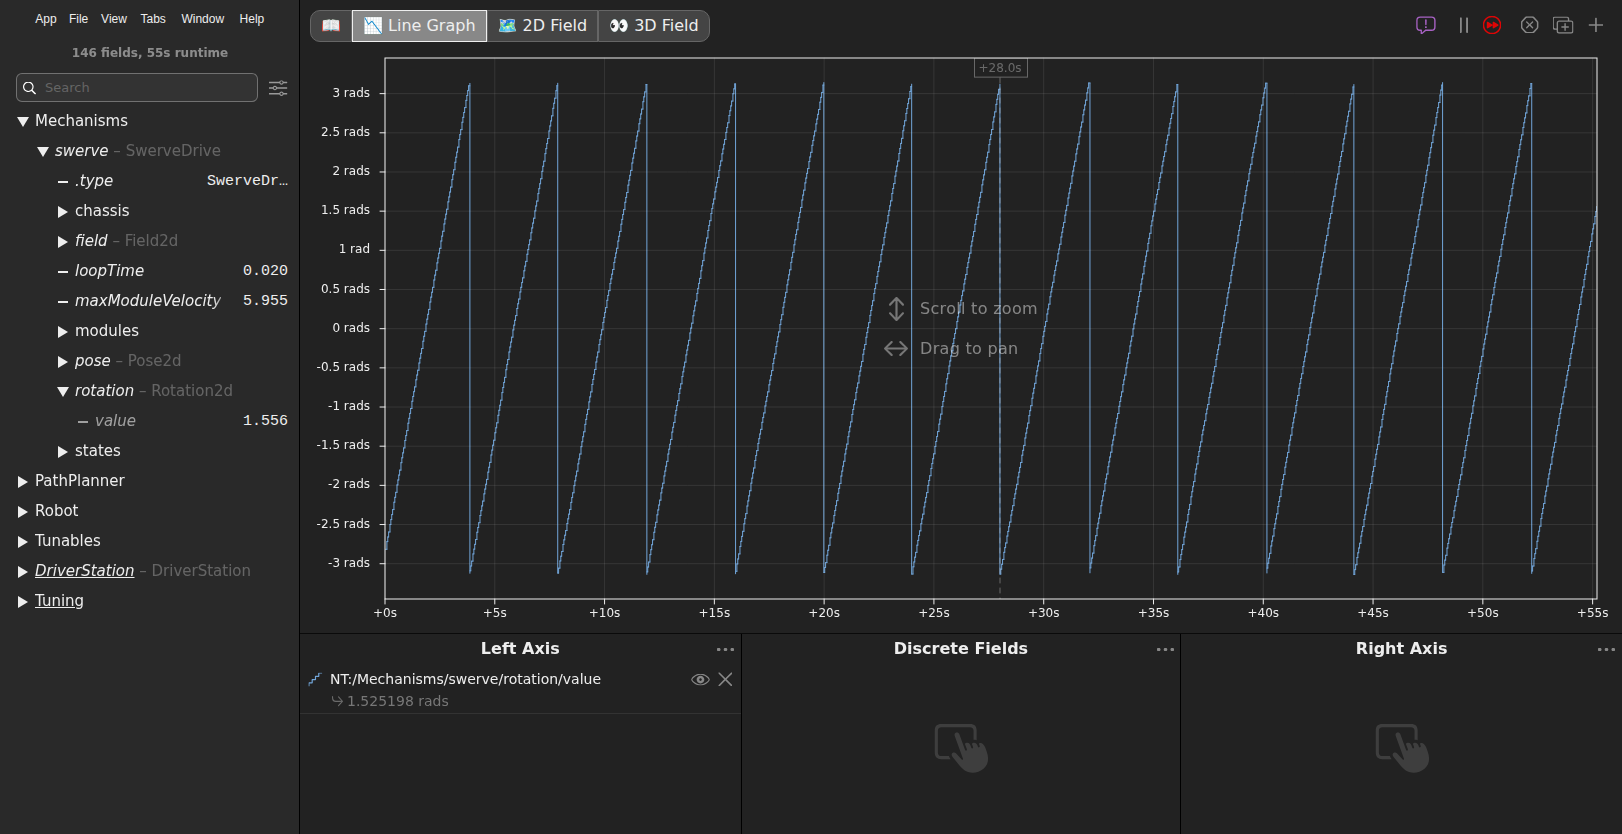
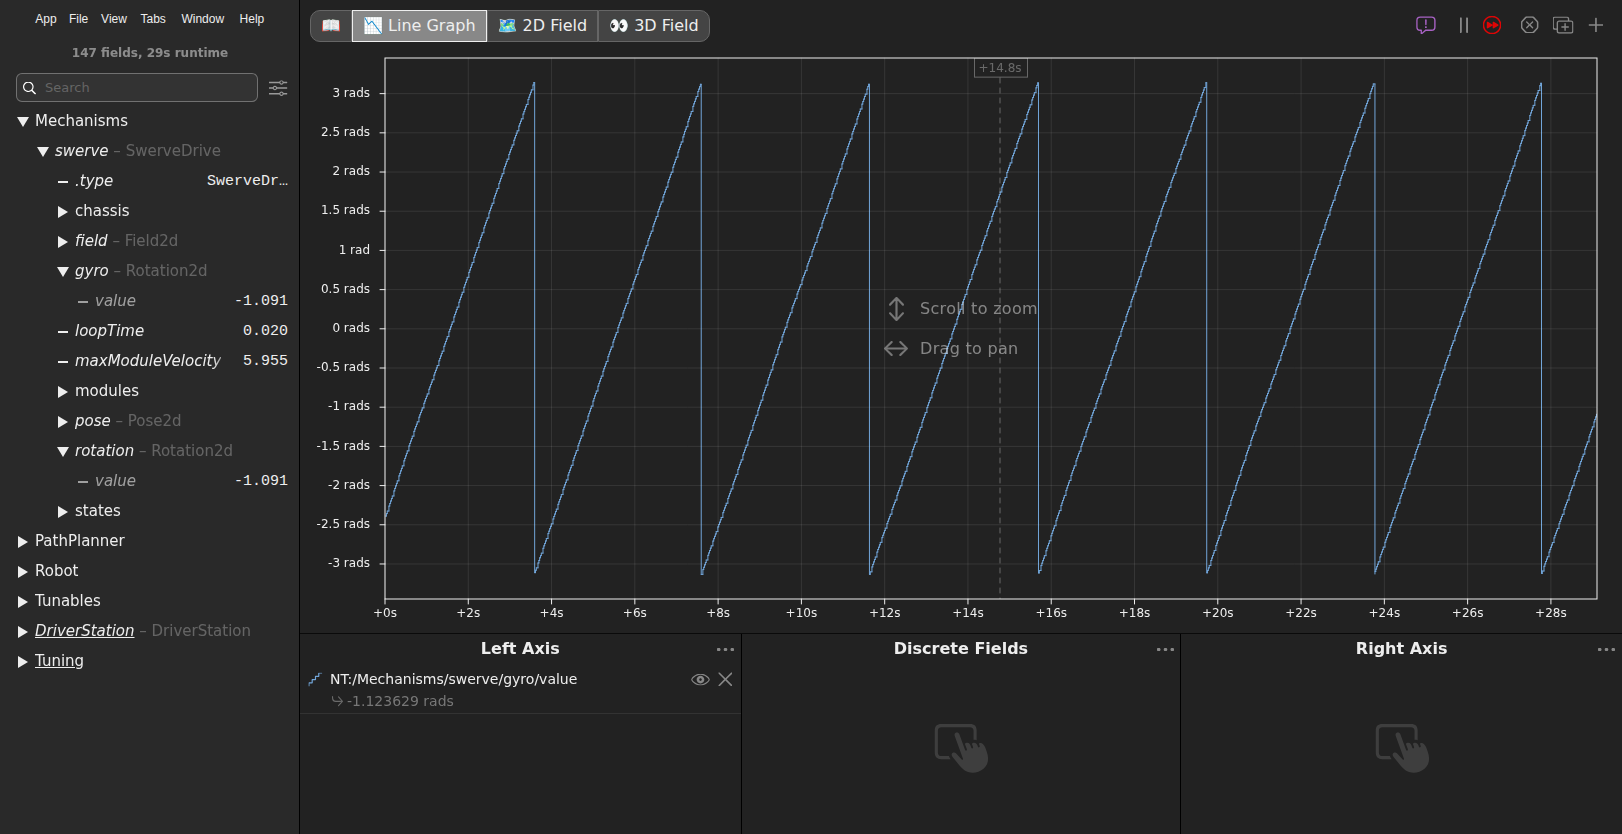
Swerve telemetry: rotation is the odometry rotation and gyro is the gyro's, both Rotation2d

diff --git a/explanation/telemetry-and-vision.md b/explanation/telemetry-and-vision.md
@@ -8,7 +8,7 @@ description: Telemetry verbosity, simulation, and fusing vision pose estimates
 
 YAMS pushes swerve drive and module data to NetworkTables under `Mechanisms/<name>`, where `<name>` is the telemetry name you pass to `SwerveDriveConfig.withTelemetry(name, ...)`. This documentation and the YAGSL examples use `swerve`, so the paths below start with `Mechanisms/swerve`. This is the data most dashboards (Shuffleboard, Elastic, AdvantageScope) read to render swerve widgets. See the [AdvantageScope how-to guide](../how-to/set-up-advantagescope.md). Every one of these fields is also written to a WPILib DataLog automatically. See [How to view your DataLog in AdvantageScope](../how-to/view-your-datalog-in-advantagescope.md) to look at a recorded run after the fact.
 
-<figure><img src="../.gitbook/assets/yagsl-telemetry.png" alt="AdvantageScope with Mechanisms/swerve expanded: .type reads SwerveDrive, then chassis, field, loopTime, maxModuleVelocity, modules, pose, rotation (a Rotation2d) with its value, and states. rotation/value is graphed on the left axis, rising as the robot turns counterclockwise and wrapping at plus or minus pi radians."><figcaption><p>The Mechanisms/swerve NetworkTables tree as seen in AdvantageScope.</p></figcaption></figure>
+<figure><img src="../.gitbook/assets/yagsl-telemetry.png" alt="AdvantageScope with Mechanisms/swerve expanded: .type reads SwerveDrive, then chassis, field, gyro (a Rotation2d) with its value, loopTime, maxModuleVelocity, modules, pose, rotation (a Rotation2d) with its value, and states. gyro/value is graphed on the left axis, rising as the robot turns counterclockwise and wrapping at plus or minus pi radians."><figcaption><p>The Mechanisms/swerve NetworkTables tree as seen in AdvantageScope.</p></figcaption></figure>
 
 ```
 Mechanisms/swerve/
@@ -16,7 +16,8 @@ Mechanisms/swerve/
 ├── loopTime                (seconds)
 ├── maxModuleVelocity       (meters per second, the fastest a module can drive)
 ├── pose                    (Pose2d struct)
-├── rotation                (Rotation2d struct, the robot's rotation from the gyro, not from odometry)
+├── rotation                (Rotation2d struct, the robot's rotation from odometry, used for the module states)
+├── gyro                    (Rotation2d struct, the gyro's rotation)
 ├── chassis/
 │   ├── current             (ChassisVelocities struct, robot-relative, measured)
 │   ├── desired              (ChassisVelocities struct, robot-relative, commanded)
@@ -55,7 +56,7 @@ public enum TelemetryVerbosity {
 
 | Verbosity | Swerve drive fields |
 | --- | --- |
-| `LOW` | `pose`, `rotation`, `states/current`, `states/desired`, `chassis/current`, `chassis/desired` and `maxModuleVelocity` |
+| `LOW` | `pose`, `rotation`, `gyro`, `states/current`, `states/desired`, `chassis/current`, `chassis/desired` and `maxModuleVelocity` |
 | `MID` | `LOW`'s, and `chassis/field` |
 | `HIGH` | `MID`'s, and the gains and setpoints for [live tuning](../how-to/tune-pidf-gains.md) |
 

diff --git a/how-to/view-your-datalog-in-advantagescope.md b/how-to/view-your-datalog-in-advantagescope.md
@@ -62,12 +62,12 @@ var cfg = new SwerveDriveConfig()
 
 `SwerveParser` then derives a DataLog name for every module and motor from that one name:
 
-* `Swerve`: the drive itself (pose, rotation, chassis speeds, module states).
+* `Swerve`: the drive itself (pose, rotation, gyro, chassis speeds, module states).
 * `Swerve/modules/<name>`: that module's absolute encoder and state.
 * `Swerve/modules/<name>/drive`: that module's drive motor.
 * `Swerve/modules/<name>/azimuth`: that module's angle/steering motor.
 
-Numeric entries have their unit inserted after that prefix, for example `Swerve/meters_per_second/maxModuleVelocity`, `Swerve/modules/frontleft/degrees/encoder`, or `Swerve/modules/frontleft/azimuth/rotations/mechanism/position`. Struct entries such as `Swerve/pose`, `Swerve/rotation` and `Swerve/states/current` do not. Tunable (live tuning) fields are never written to the DataLog.
+Numeric entries have their unit inserted after that prefix, for example `Swerve/meters_per_second/maxModuleVelocity`, `Swerve/modules/frontleft/degrees/encoder`, or `Swerve/modules/frontleft/azimuth/rotations/mechanism/position`. Struct entries such as `Swerve/pose`, `Swerve/rotation`, `Swerve/gyro` and `Swerve/states/current` do not. Tunable (live tuning) fields are never written to the DataLog.
 
 {% hint style="info" %}
 If you use the shorter `withTelemetry("swerve", TelemetryVerbosity.HIGH)` overload instead, `SwerveParser` names the drive's DataLog `Swerve` for you, but only the drive-level entries are created, not the per-module or per-motor ones. Pass a `SwerveDriveTelemetryConfig` with `withDataLogName(...)` as above to get all of them. A `SwerveDriveTelemetryConfig` without a DataLog name creates no dedicated entries at all (the `NT:` mirror is still recorded).

diff --git a/tutorial/04-verify-and-calibrate-hardware.md b/tutorial/04-verify-and-calibrate-hardware.md
@@ -37,7 +37,7 @@ If you're using a hardware vendor client to poke at motors/encoders directly, yo
 {% step %}
 ### Pick a front and check the gyroscope
 
-**Front is whatever the gyroscope reports as `0`.** Pick a front, and expect that you may need to change it later if it turns out to be inconvenient. Then lift the robot and turn it counterclockwise (seen from above): `Mechanisms/swerve/rotation` (the gyro's `Rotation2d`) must go **up**. If it goes down, set `gyroInvert` to `true` in `swervedrive.json`.
+**Front is whatever the gyroscope reports as `0`.** Pick a front, and expect that you may need to change it later if it turns out to be inconvenient. Then lift the robot and turn it counterclockwise (seen from above): `Mechanisms/swerve/gyro` (the gyro's `Rotation2d`) must go **up**. If it goes down, set `gyroInvert` to `true` in `swervedrive.json`.
 
 <figure><img src="../.gitbook/assets/yagsl-gyro-ccw.gif" alt="An animation of a robot seen from above turning 90 degrees counterclockwise, twice. On the left the gyro reading goes up to 90 degrees, which is correct, so gyroInvert stays false. On the right it goes down to minus 90 degrees, so gyroInvert must be set to true."><figcaption><p>Turn the robot counterclockwise: the gyro should go up.</p></figcaption></figure>
 

diff --git a/how-to/determine-inversion.md b/how-to/determine-inversion.md
@@ -45,7 +45,7 @@ Once every module reads CCW+, rotate each wheel to point straight forward (bevel
 
 ## 2. Confirm the gyro reads CCW+
 
-With the robot lifted off the ground, rotate the **entire robot** counterclockwise (viewed from above) and watch `Mechanisms/swerve/rotation`, the robot's rotation straight from the gyro. It's a `Rotation2d`: in AdvantageScope, expand it and graph its `value` (radians).
+With the robot lifted off the ground, rotate the **entire robot** counterclockwise (viewed from above) and watch `Mechanisms/swerve/gyro`, the gyro's rotation. It's a `Rotation2d`: in AdvantageScope, expand it and graph its `value` (radians).
 
 <figure><img src="../.gitbook/assets/yagsl-gyro-ccw.gif" alt="An animation of a robot seen from above turning 90 degrees counterclockwise, twice. On the left the gyro reading goes up to 90 degrees, which is correct, so gyroInvert stays false. On the right it goes down to minus 90 degrees, so gyroInvert must be set to true."><figcaption><p>Turn the robot counterclockwise: the gyro should go up.</p></figcaption></figure>
 

diff --git a/how-to/use-a-custom-gyro.md b/how-to/use-a-custom-gyro.md
@@ -149,7 +149,7 @@ whole attitude into the robot's frame for that axis, then applies the inversion 
 ### Verify it
 
 Follow the normal [gyro CCW+ check](determine-inversion.md#2-confirm-the-gyro-reads-ccw).
-`Mechanisms/swerve/rotation` in NetworkTables still populates and behaves exactly like a parser-built
+`Mechanisms/swerve/gyro` in NetworkTables still populates and behaves exactly like a parser-built
 gyro, since YAMS only ever sees a `Supplier<Rotation3d>` regardless of where it came from. If it
 increases while the robot rotates counter-clockwise, you're done; if not, flip
 `withGyroInverted(...)` from step 3 rather than `gyroInvert` in the JSON (which, again, is ignored).
